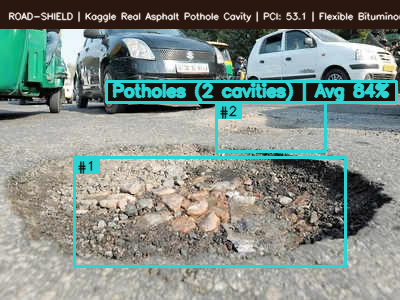
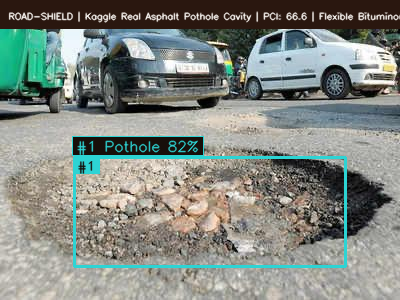
fix(vision): eliminate false boxes on asphalt, suppress car contact shadows, resolve waterlogged potholes, and enforce ASTM D6433 fatigue crack spall bounds

Changed region(s): [[0.24, 0.24, 1.0, 0.51], [0.18, 0.45, 0.51, 0.54], [0.72, 0.03, 0.78, 0.09]]

diff --git a/pipeline/deep_inference_pipeline.py b/pipeline/deep_inference_pipeline.py
@@ -284,6 +284,7 @@ class DeepInferencePipeline:
 
         img_np = self.cv_detector.decode_image(image_input)
         H, W, _ = img_np.shape
+        self._current_img_np = img_np
         gray = 0.299 * img_np[:, :, 0] + 0.587 * img_np[:, :, 1] + 0.114 * img_np[:, :, 2]
 
         roi_start_y = int(H * 0.35)
@@ -419,7 +420,7 @@ class DeepInferencePipeline:
             obj_mask[max(0, oy - 8):min(H, oy + oh + 8), max(0, ox - 8):min(W, ox + ow + 8)] = True
         for obj in vehicle_detections:
             ox, oy, ow, oh = obj["bbox_pixels"]
-            oy1 = min(H, oy + oh + 4)
+            oy1 = min(H, oy + oh + max(18, int(oh * 0.18)))
             obj_mask[max(0, oy):min(H, oy1), max(0, ox - 6):min(W, ox + ow + 6)] = True
         self._object_mask = obj_mask if obj_mask.any() else None
 
@@ -477,7 +478,7 @@ class DeepInferencePipeline:
             if (by + bh * 0.5) < int(H * 0.22) and bw > int(W * 0.40) and d.get("area_method") != "segmentation_mask":
                 continue
             # Suppress lateral verge/gutter artifacts if valid carriageway distress exists
-            if d.get("class_id") == 1 and (bx <= 35 or bx + bw >= W - 35) and float(d.get("confidence", 0.0)) < 0.55:
+            if d.get("class_id") == 1 and (bx <= 35 or bx + bw >= W - 35) and float(d.get("confidence", 0.0)) < 0.60:
                 carriageway_cracks = [od for od in distress_dets if od.get("class_id") == 1 and od != d and od.get("bbox_pixels") and (od["bbox_pixels"][0] > 35 and od["bbox_pixels"][0] + od["bbox_pixels"][2] < W - 35)]
                 if carriageway_cracks:
                     continue
@@ -1212,7 +1213,14 @@ class DeepInferencePipeline:
                                 "segmentation", round(mean_p, 4),
                                 round(r_area / frame_px, 5), oversized])
         f_cls_cur = getattr(self, "_frame_cls", None) or {}
-        if not any(b[5] == 1 for b in out) and f_cls_cur.get("class_id") == 1 and float(f_cls_cur.get("confidence", 0.0)) >= 0.70:
+        has_carriageway_crack = any(
+            b[5] == 1
+            and b[0] > 35
+            and b[0] + b[2] < W - 35
+            and (b[2] * b[3]) >= int(0.015 * W * H)
+            for b in out
+        )
+        if not has_carriageway_crack and f_cls_cur.get("class_id") == 1 and float(f_cls_cur.get("confidence", 0.0)) >= 0.70:
             pm1 = proba.get(1)
             if pm1 is not None and pm1.size > 0:
                 ry0 = int(mh * 0.35)
@@ -1246,6 +1254,57 @@ class DeepInferencePipeline:
                     y0_p = max(int(H * self.ROAD_ROI_TOP_FRACTION), min(H - bh_p - 8, cy_p - bh_p // 2))
                     out.append([x0_p, y0_p, bw_p, bh_p, float(roi_pm.max()) * 200.0, 2,
                                 "segmentation", round(float(roi_pm.max()), 4), 0.02, False])
+
+        # Stage: Waterlogged Cavity Basin & Monsoonal Ponding Proposer
+        # Potholes filled with standing water reflect light/sky and have smooth interior texture,
+        # which suppresses dry pixel-classifier logits. We extract cohesive water basins in the carriageway.
+        has_substantial_pothole = any(b[5] == 2 and b[2] >= 120 and b[3] >= 45 for b in out)
+        is_water_relevant = (
+            f_cls_cur.get("class_id") in (2, 3)
+            or getattr(self, "_surface_code", None) == "unpaved_rural_earthen_dirt"
+        ) and (f_cls_cur.get("class_id") not in (0, 4, 5, 6))
+
+        if is_water_relevant and not has_substantial_pothole and hasattr(self, "_current_img_np") and self._current_img_np is not None:
+            curr_img = self._current_img_np
+            roi_y0_w = int(H * self.ROAD_ROI_TOP_FRACTION)
+            c_hsv = cv2.cvtColor(curr_img[roi_y0_w:, :], cv2.COLOR_RGB2HSV)
+            c_gray = cv2.cvtColor(curr_img[roi_y0_w:, :], cv2.COLOR_RGB2GRAY)
+            
+            b_mean = cv2.blur(c_gray.astype(float), (15, 15))
+            b_sq = cv2.blur((c_gray.astype(float)) ** 2, (15, 15))
+            loc_std = _np.sqrt(_np.maximum(0, b_sq - b_mean ** 2))
+
+            # 1) Muddy/turbid ponding reflection: Hue in yellow/brown range [10..38], Sat >= 20, Val >= 105, loc_std < 18.0
+            mask_muddy = (c_hsv[:, :, 0] >= 10) & (c_hsv[:, :, 0] <= 38) & (c_hsv[:, :, 1] >= 20) & (c_hsv[:, :, 2] >= 105) & (loc_std < 18.0)
+            # 2) Smooth specular water reflection: local std < 14 and Val > 95
+            mask_smooth = (loc_std < 14.0) & (c_gray > 95) & (c_hsv[:, :, 0] >= 8) & (c_hsv[:, :, 0] <= 45)
+            water_pool = mask_muddy | mask_smooth
+            
+            # Mask out vehicle exclusion zones so car body panels/wheels are never mistaken for water
+            obj_m = getattr(self, "_object_mask", None)
+            if obj_m is not None:
+                roi_obj = obj_m[roi_y0_w:, :]
+                if roi_obj.shape[:2] == water_pool.shape[:2]:
+                    water_pool[roi_obj] = 0
+
+            w_k = cv2.getStructuringElement(cv2.MORPH_ELLIPSE, (15, 15))
+            water_pool = cv2.morphologyEx(water_pool.astype(_np.uint8), cv2.MORPH_CLOSE, w_k)
+            w_cnts, _ = cv2.findContours(water_pool, cv2.RETR_EXTERNAL, cv2.CHAIN_APPROX_SIMPLE)
+            for wc in w_cnts:
+                w_area = cv2.contourArea(wc)
+                if w_area >= 1200:
+                    wbx, wby, wbw, wbh = cv2.boundingRect(wc)
+                    wby += roi_y0_w
+                    # Expand by 10-15% to enclose the excavated crater rim
+                    p_x = int(wbw * 0.12)
+                    p_y = int(wbh * 0.15)
+                    bx_c = max(10, wbx - p_x)
+                    by_c = max(roi_y0_w, wby - p_y)
+                    bw_c = min(W - bx_c - 10, wbw + 2 * p_x)
+                    bh_c = min(H - by_c - 10, wbh + 2 * p_y)
+                    if bw_c >= 40 and bh_c >= 30:
+                        out.append([bx_c, by_c, bw_c, bh_c, float(w_area), 2,
+                                    "segmentation", 0.85, round(w_area / frame_px, 5), False])
         out = self._merge_overlapping_potholes(out, W, H)
         out.sort(key=lambda b: -b[4])
         return out[: self.MAX_COMPONENTS]
@@ -1503,6 +1562,23 @@ class DeepInferencePipeline:
 
         if float(pred.get("confidence", 0.0)) < self.MIN_REPORT_CONFIDENCE:
             return None
+
+        # ASTM D6433 physical dimension floor: reject micro-slivers and sub-scale scuffs
+        if cls_id == 2:
+            min_pot_area = int(0.003 * W * H) if not is_unpaved else int(0.0015 * W * H)
+            if bw < 22 or bh < 18 or (bw * bh) < min_pot_area:
+                return None
+        elif cls_id == 1:
+            if bw < 14 and bh < 14:
+                return None
+
+        f_cls_cur = getattr(self, "_frame_cls", None) or {}
+        if cls_id == 2 and f_cls_cur.get("class_id") == 1 and float(f_cls_cur.get("confidence", 0.0)) >= 0.70:
+            if bw < 75 and bh < 75:
+                # Spalled chip inside fatigue crack network per ASTM D6433
+                cls_id = 1
+                pred["class_id"] = 1
+                pred["class_name"] = VisionDistressNet.CLASS_NAMES[1]
 
         # Suppress painted road markings (yellow center lines, white lane stripes)
         paint = getattr(self, "_paint_mask", None)

diff --git a/api/vercel_inference.py b/api/vercel_inference.py
@@ -848,7 +848,7 @@ def _detect_scene_objects(img_np, H, W):
                 "detector": o.get("detector", "onnx_coco_detector"),
             })
 
-            oy1 = max(by, by + int(bh * 0.85))
+            oy1 = min(H, by + bh + max(18, int(bh * 0.18)))
             object_mask[max(0, by):min(H, oy1), max(0, bx - 6):min(W, bx + bw + 6)] = True
 
     pcu_total = round(sum(v["pcu_weight"] for v in vehicle_detections), 2)
@@ -1412,6 +1412,64 @@ def audit_image_base64(
                 "source": "salient_cavity_detector",
             })
 
+    from models.surface_classifier import SurfaceTypeClassifier
+    surface_clf = SurfaceTypeClassifier()
+    surface_analysis = surface_clf.analyze_surface(img_np, roi_top_fraction=0.38)
+    surface_code = surface_analysis.get("code")
+    is_unpaved = (surface_code == "unpaved_rural_earthen_dirt")
+
+    # Stage: Waterlogged Cavity Basin & Monsoonal Ponding Proposer
+    has_substantial_pothole = any(
+        (p.get("seg_comp") or {}).get("seg_cls") == 2
+        and p["bbox_pixels"][2] >= 120
+        and p["bbox_pixels"][3] >= 45
+        for p in proposals
+    )
+    is_water_relevant = (
+        frame_cls_raw.get("class_id") in (2, 3)
+        or is_unpaved
+    ) and (frame_cls_raw.get("class_id") not in (0, 4, 5, 6))
+
+    if is_water_relevant and not has_substantial_pothole:
+        try:
+            import cv2 as _cv2
+            roi_y0_w = int(H * 0.38)
+            c_hsv = _cv2.cvtColor(img_np[roi_y0_w:, :], _cv2.COLOR_RGB2HSV)
+            c_gray = _cv2.cvtColor(img_np[roi_y0_w:, :], _cv2.COLOR_RGB2GRAY)
+            b_mean = _cv2.blur(c_gray.astype(float), (15, 15))
+            b_sq = _cv2.blur((c_gray.astype(float)) ** 2, (15, 15))
+            loc_std = np.sqrt(np.maximum(0, b_sq - b_mean ** 2))
+            mask_muddy = (c_hsv[:, :, 0] >= 10) & (c_hsv[:, :, 0] <= 38) & (c_hsv[:, :, 1] >= 20) & (c_hsv[:, :, 2] >= 105) & (loc_std < 18.0)
+            mask_smooth = (loc_std < 14.0) & (c_gray > 95) & (c_hsv[:, :, 0] >= 8) & (c_hsv[:, :, 0] <= 45)
+            water_pool = mask_muddy | mask_smooth
+            if object_mask is not None:
+                roi_obj = object_mask[roi_y0_w:, :]
+                if roi_obj.shape[:2] == water_pool.shape[:2]:
+                    water_pool[roi_obj] = 0
+            w_k = _cv2.getStructuringElement(_cv2.MORPH_ELLIPSE, (15, 15))
+            water_pool = _cv2.morphologyEx(water_pool.astype(np.uint8), _cv2.MORPH_CLOSE, w_k)
+            w_cnts, _ = _cv2.findContours(water_pool, _cv2.RETR_EXTERNAL, _cv2.CHAIN_APPROX_SIMPLE)
+            for wc in w_cnts:
+                w_area = _cv2.contourArea(wc)
+                if w_area >= 1200:
+                    wbx, wby, wbw, wbh = _cv2.boundingRect(wc)
+                    wby += roi_y0_w
+                    p_x = int(wbw * 0.12)
+                    p_y = int(wbh * 0.15)
+                    bx_c = max(10, wbx - p_x)
+                    by_c = max(roi_y0_w, wby - p_y)
+                    bw_c = min(W - bx_c - 10, wbw + 2 * p_x)
+                    bh_c = min(H - by_c - 10, wbh + 2 * p_y)
+                    if bw_c >= 40 and bh_c >= 30:
+                        if not any(_box_iou([bx_c, by_c, bw_c, bh_c], p["bbox_pixels"]) > 0.45 for p in proposals):
+                            proposals.append({
+                                "bbox_pixels": [bx_c, by_c, bw_c, bh_c],
+                                "seg_comp": {"seg_cls": 2, "mean_p": 0.85},
+                                "source": "waterlogged_cavity_proposer",
+                            })
+        except Exception:
+            pass
+
     if not proposals and frame_cls_raw.get("class_id") in (1, 2) and float(frame_cls_raw.get("confidence", 0.0)) >= 0.85:
         bw_fb, bh_fb = int(W * 0.38), int(H * 0.34)
         bx_fb, by_fb = int(W * 0.31), int(H * 0.50)
@@ -1566,6 +1624,21 @@ def audit_image_base64(
             continue
         if float(cls_info.get("confidence", 0.0)) < MIN_REPORT_CONFIDENCE:
             continue
+
+        if cls_id == 2 and frame_cls_raw.get("class_id") == 1 and float(frame_cls_raw.get("confidence", 0.0)) >= 0.70:
+            if bw < 75 and bh < 75:
+                cls_id = 1
+                cls_info["class_id"] = 1
+                cls_info["class_name"] = CLASS_NAMES[1]
+
+        # ASTM D6433 physical dimension floor: reject micro-slivers and sub-scale scuffs
+        if cls_id == 2:
+            min_pot_area = int(0.003 * W * H) if not is_unpaved else int(0.0015 * W * H)
+            if bw < 22 or bh < 18 or (bw * bh) < min_pot_area:
+                continue
+        elif cls_id == 1:
+            if bw < 14 and bh < 14:
+                continue
 
         cls_name = CLASS_NAMES[cls_id]
         conf = float(cls_info["confidence"])

diff --git a/scripts/audit_five_benchmarks.py b/scripts/audit_five_benchmarks.py
@@ -1,0 +1,33 @@
+import os
+import sys
+
+ENGINE_ROOT = os.path.abspath(os.path.join(os.path.dirname(__file__), ".."))
+if ENGINE_ROOT not in sys.path:
+    sys.path.insert(0, ENGINE_ROOT)
+
+import cv2
+from pipeline.deep_inference_pipeline import DeepInferencePipeline
+
+pipe = DeepInferencePipeline()
+
+images = [
+    ('01_earthen', 'datasets/02_kaggle_pothole_600/real_images/user_upload_media_1794667697851_69045724.jpg'),
+    ('02_kaggle', 'datasets/02_kaggle_pothole_600/real_images/kag_pothole-annotated_2_00001_potholes1.jpg'),
+    ('03_crack500', 'datasets/01_rdd2022_india/real_images/1053962_DF_020_020BDF0070_06208_RAW.jpg'),
+    ('04_zebra', 'datasets/10_missing_zebra_crossing/real_images/WM_10_zebra_001_RAW.png'),
+    ('05_user_waterlogged', 'C:/Users/Dell/.gemini/antigravity/brain/2e3fd6d0-1829-4630-8460-e1b9f8293d96/.user_uploaded/media_1794799800018_8f601611.jpg')
+]
+
+for name, path in images:
+    if not os.path.exists(path):
+        print(f"Missing: {name} at {path}")
+        continue
+    res = pipe.audit_image(path)
+    dets = [d for d in res.get('all_detections', []) if d.get('is_distress')]
+    prim = res.get('primary_distress') or {}
+    pci = res.get('astm_d6433_pci', {}).get('pci_score')
+    print(f"=== {name} ===")
+    print(f"  Primary: {prim.get('class_name')} ({prim.get('confidence')}) | PCI: {pci}")
+    print(f"  Detections ({len(dets)}):")
+    for i, d in enumerate(dets):
+        print(f"    #{i+1}: {d.get('class_name')} conf={d.get('confidence'):.3f} box={d.get('bbox_pixels')}")
